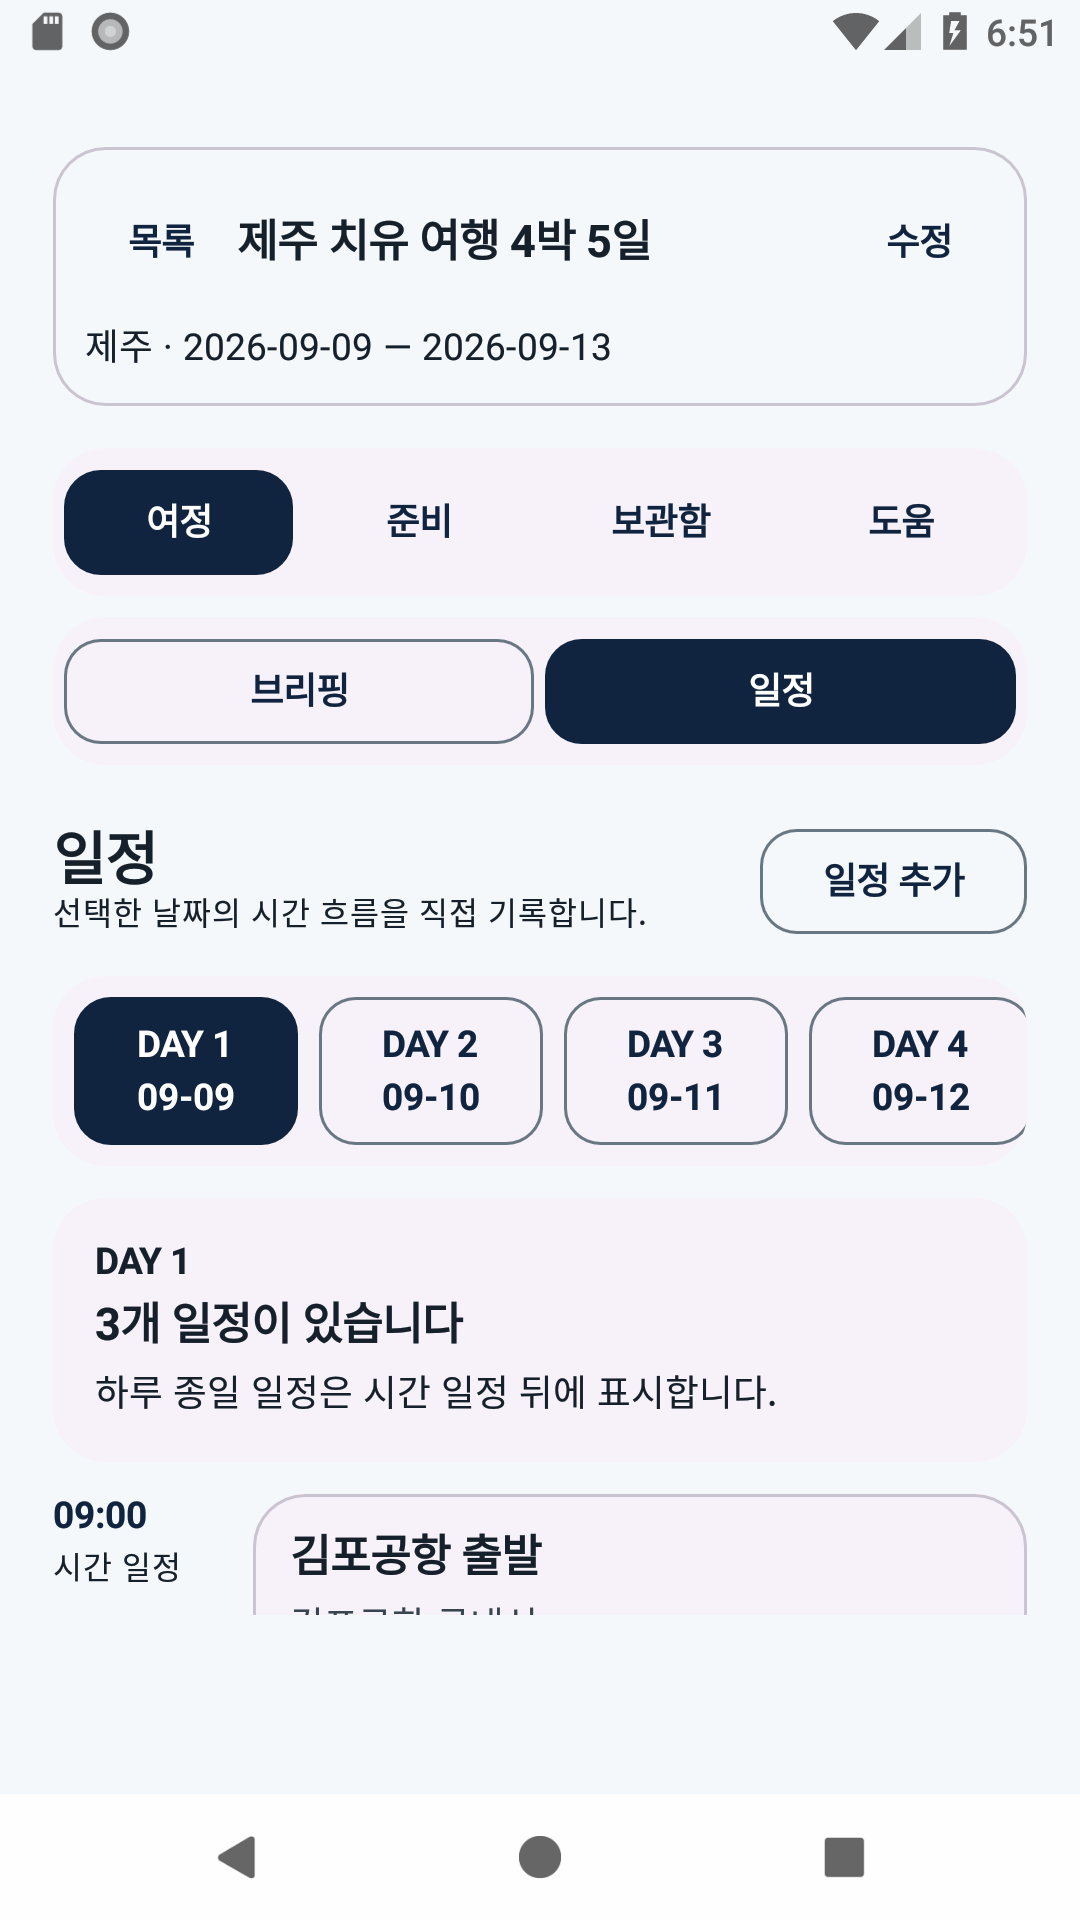
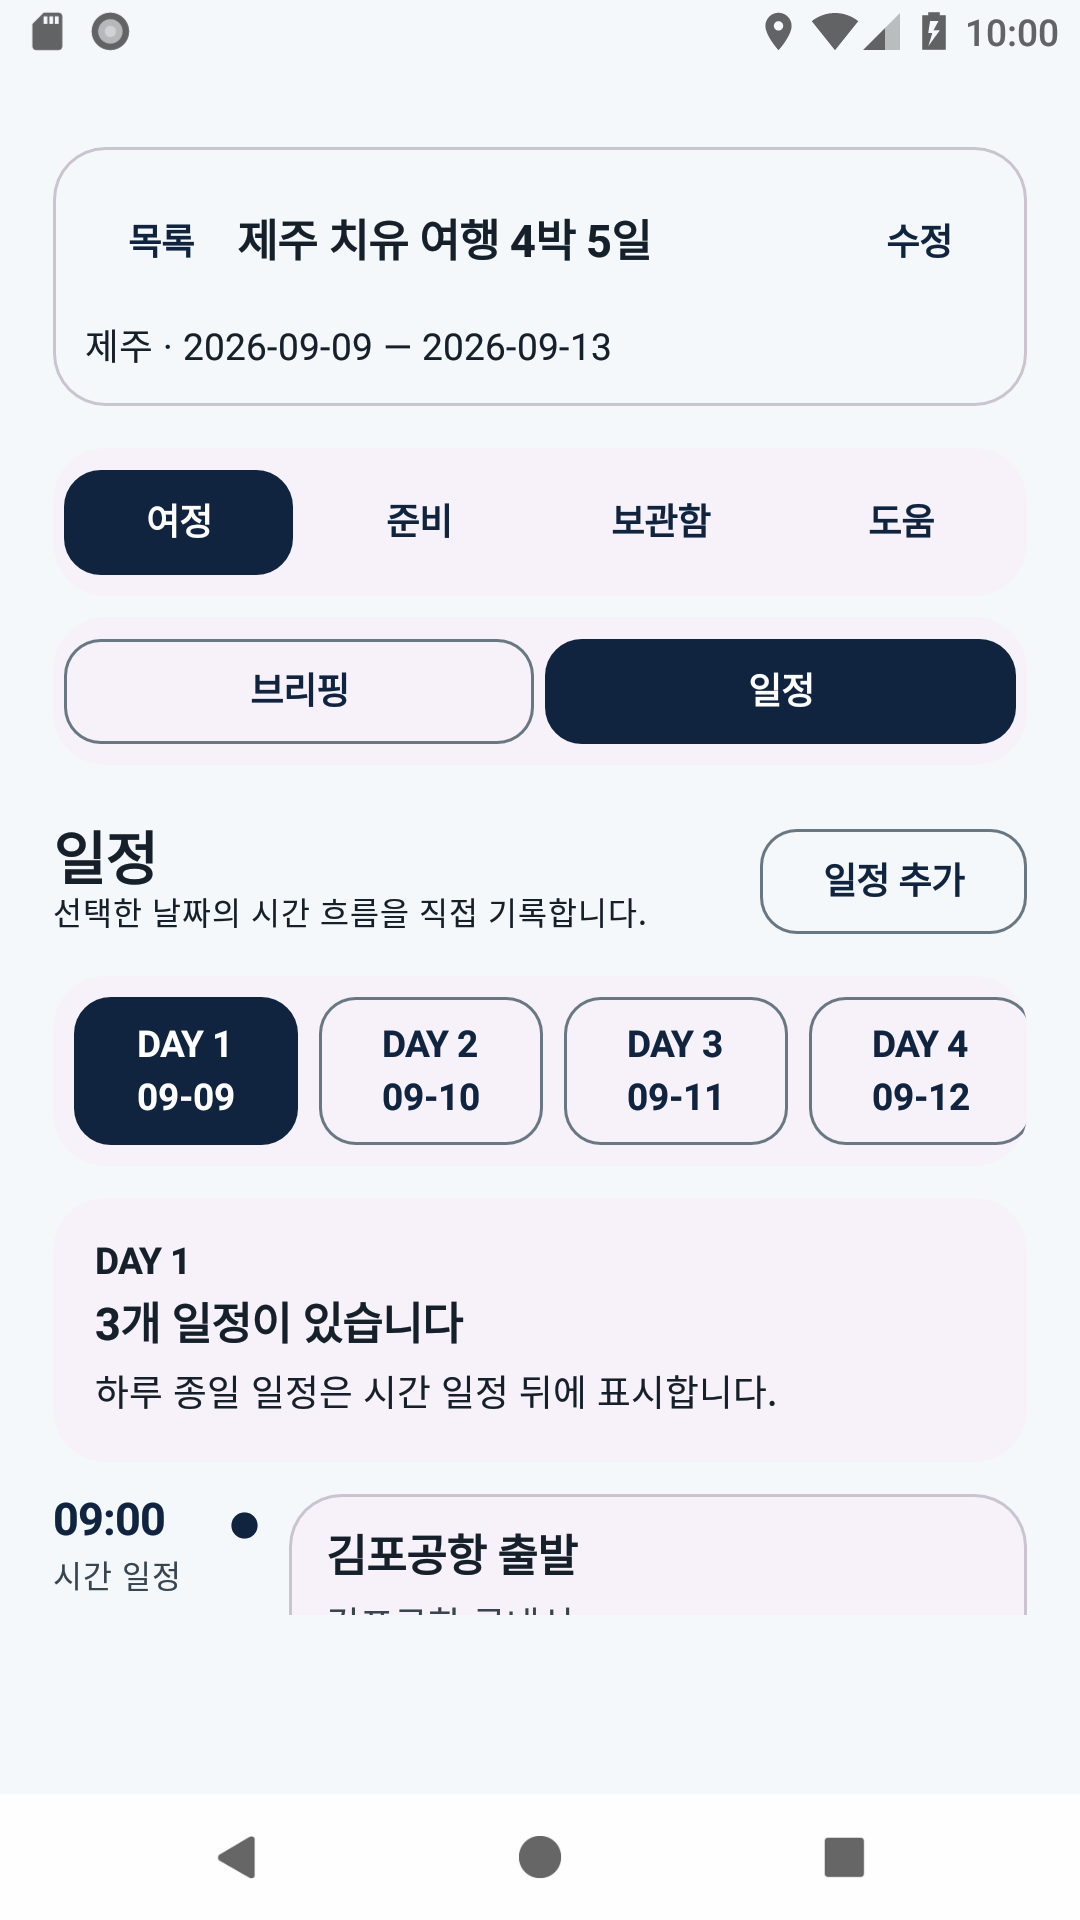
feat: visual polish — ticket documents, timeline rail, destination monograms
- reservation rows become travel documents: type badge (항공권/숙박권/
  렌터카권/...), perforated stub with dashed rule and punched notches,
  confirmation code as the boarding-pass number on the stub
- itinerary day becomes a boarding sequence: time column + continuous
  rail with state nodes (timed=primary, all-day=secondary)
- journey hero and list cards gain destination monogram identity marks,
  list card restructured to monogram + info + scope chip
- all colors from colorScheme roles only; tags and semantics unchanged;
  gates 3/4/5/10/12/15, unit, and 10 instrumented tests pass

diff --git a/app/src/main/kotlin/io/trippilot/app/core/design/TripPilotApp.kt b/app/src/main/kotlin/io/trippilot/app/core/design/TripPilotApp.kt
@@ -58,6 +58,14 @@ import androidx.compose.ui.semantics.semantics
 import androidx.compose.ui.text.font.FontWeight
 import androidx.compose.ui.text.style.TextOverflow
 import androidx.compose.ui.tooling.preview.Preview
+import androidx.compose.ui.draw.drawBehind
+import androidx.compose.ui.geometry.Offset
+import androidx.compose.ui.graphics.PathEffect
+import androidx.compose.foundation.layout.IntrinsicSize
+import androidx.compose.foundation.layout.fillMaxHeight
+import androidx.compose.foundation.shape.CircleShape
+import androidx.compose.foundation.border
+import androidx.compose.foundation.layout.size
 import androidx.compose.ui.unit.dp
 import io.trippilot.app.R
 import io.trippilot.app.core.data.db.ItineraryItemEntity
@@ -202,6 +210,25 @@ private fun JourneyHero(trip: TripEntity?, onTripSelected: (String) -> Unit) {
                 contentScale = ContentScale.Crop,
                 modifier = Modifier.fillMaxSize(),
             )
+            // Destination monogram: every trip gets a distinct identity mark
+            // without any remote imagery (offline-first, design-direction §5).
+            trip?.let { current ->
+                Box(
+                    modifier = Modifier
+                        .align(Alignment.TopEnd)
+                        .padding(16.dp)
+                        .size(56.dp)
+                        .background(TripPilotHeroScrimBottom, CircleShape)
+                        .border(1.dp, TripPilotHeroText, CircleShape),
+                    contentAlignment = Alignment.Center,
+                ) {
+                    Text(
+                        current.destination.trim().firstOrNull()?.toString().orEmpty(),
+                        style = MaterialTheme.typography.headlineSmall,
+                        color = TripPilotHeroTitle,
+                    )
+                }
+            }
             Box(
                 modifier = Modifier
                     .fillMaxSize()
@@ -252,10 +279,23 @@ private fun TripCard(trip: TripEntity, onClick: () -> Unit) {
         colors = CardDefaults.cardColors(containerColor = MaterialTheme.colorScheme.surfaceContainerLow),
         border = BorderStroke(1.dp, MaterialTheme.colorScheme.outlineVariant),
     ) {
-        Column(Modifier.padding(16.dp), verticalArrangement = Arrangement.spacedBy(4.dp)) {
-            Text(trip.title, style = MaterialTheme.typography.titleLarge)
-            Text(trip.destination, style = MaterialTheme.typography.titleMedium, color = MaterialTheme.colorScheme.primary)
-            Text("${trip.startDate} · ${trip.endDate}", style = MaterialTheme.typography.bodyMedium)
+        Row(Modifier.padding(16.dp), horizontalArrangement = Arrangement.spacedBy(14.dp), verticalAlignment = Alignment.CenterVertically) {
+            Box(
+                modifier = Modifier
+                    .size(48.dp)
+                    .background(MaterialTheme.colorScheme.primaryContainer, MaterialTheme.shapes.medium),
+                contentAlignment = Alignment.Center,
+            ) {
+                Text(
+                    trip.destination.trim().firstOrNull()?.toString().orEmpty(),
+                    style = MaterialTheme.typography.titleLarge,
+                    color = MaterialTheme.colorScheme.onPrimaryContainer,
+                )
+            }
+            Column(Modifier.weight(1f), verticalArrangement = Arrangement.spacedBy(2.dp)) {
+                Text(trip.title, style = MaterialTheme.typography.titleLarge, maxLines = 1, overflow = TextOverflow.Ellipsis)
+                Text("${trip.destination} · ${trip.startDate} — ${trip.endDate}", style = MaterialTheme.typography.bodyMedium, color = MaterialTheme.colorScheme.onSurfaceVariant, maxLines = 1, overflow = TextOverflow.Ellipsis)
+            }
             StatusChip(scopeLabel(trip.scope))
         }
     }
@@ -822,15 +862,45 @@ private fun TimelineEntry(
     onDelete: (String) -> Unit,
     onSource: (ItineraryItemEntity) -> Unit,
 ) {
+    val outlineRule = MaterialTheme.colorScheme.outlineVariant
+    val nodeColor = if (item.allDay) MaterialTheme.colorScheme.secondary else MaterialTheme.colorScheme.primary
     Row(
         modifier = Modifier.fillMaxWidth().testTag("timeline_entry_${item.id}"),
         verticalAlignment = Alignment.Top,
-        horizontalArrangement = Arrangement.spacedBy(12.dp),
+        horizontalArrangement = Arrangement.spacedBy(10.dp),
     ) {
-        Column(Modifier.width(64.dp), verticalArrangement = Arrangement.spacedBy(4.dp)) {
-            Text(formatMinute(item.startMinute), style = MaterialTheme.typography.labelLarge, color = MaterialTheme.colorScheme.primary)
-            Text(if (item.allDay) "하루 종일" else "시간 일정", style = MaterialTheme.typography.bodySmall)
+        Column(Modifier.width(56.dp), verticalArrangement = Arrangement.spacedBy(4.dp)) {
+            Text(
+                formatMinute(item.startMinute),
+                style = MaterialTheme.typography.titleMedium,
+                color = MaterialTheme.colorScheme.primary,
+            )
+            Text(
+                if (item.allDay) "하루 종일" else "시간 일정",
+                style = MaterialTheme.typography.bodySmall,
+                color = MaterialTheme.colorScheme.onSurfaceVariant,
+            )
         }
+        // Document rail: a continuous rule with a node per entry turns the day
+        // into a boarding sequence instead of a flat list (design-direction §2).
+        Box(
+            Modifier
+                .width(14.dp)
+                .drawBehind {
+                    val cx = size.width / 2
+                    drawLine(
+                        color = outlineRule,
+                        start = Offset(cx, 0f),
+                        end = Offset(cx, size.height),
+                        strokeWidth = 2.dp.toPx(),
+                    )
+                    drawCircle(
+                        color = nodeColor,
+                        radius = 5.dp.toPx(),
+                        center = Offset(cx, 12.dp.toPx()),
+                    )
+                },
+        )
         Surface(
             modifier = Modifier.weight(1f),
             color = MaterialTheme.colorScheme.surfaceContainerLow,
@@ -1344,32 +1414,101 @@ private fun ReservationDocumentRow(
     onSource: (ReservationEntity) -> Unit,
     onDelete: (String) -> Unit,
 ) {
+    val typeLabel = reservationDocumentTypeLabel(reservation.type)
+    val typeColor = when (reservation.type.uppercase()) {
+        "LODGING", "TOUR" -> MaterialTheme.colorScheme.secondary
+        "CAR" -> MaterialTheme.colorScheme.tertiary
+        else -> MaterialTheme.colorScheme.primary
+    }
+    val pageBackground = MaterialTheme.colorScheme.background
+    val dashColor = MaterialTheme.colorScheme.outlineVariant
     Surface(
         modifier = Modifier.fillMaxWidth().testTag("reservation_document_${reservation.id}"),
         color = MaterialTheme.colorScheme.surfaceContainerLow,
         shape = MaterialTheme.shapes.large,
         border = BorderStroke(1.dp, MaterialTheme.colorScheme.outlineVariant),
     ) {
-        Column(Modifier.padding(16.dp), verticalArrangement = Arrangement.spacedBy(6.dp)) {
-            Text("${reservation.type} · ${reservation.status}", style = MaterialTheme.typography.labelLarge, color = MaterialTheme.colorScheme.primary)
-            Text(reservation.provider, style = MaterialTheme.typography.titleMedium, maxLines = 1, overflow = TextOverflow.Ellipsis)
-            Text("확인번호 ${reservation.confirmationCode}", style = MaterialTheme.typography.bodyLarge)
-            val detail = listOfNotNull(
-                reservation.dateTime?.takeIf(String::isNotBlank),
-                reservation.location.takeIf(String::isNotBlank),
-            ).joinToString(" · ")
-            if (detail.isNotBlank()) Text(detail, style = MaterialTheme.typography.bodyMedium)
-            reservation.url?.let {
-                Text("연결 링크", style = MaterialTheme.typography.labelMedium, color = MaterialTheme.colorScheme.onSurfaceVariant)
-                Text(it, style = MaterialTheme.typography.bodySmall, maxLines = 2, overflow = TextOverflow.Ellipsis)
+        Row(Modifier.height(IntrinsicSize.Min)) {
+            Column(
+                Modifier
+                    .weight(1f)
+                    .padding(start = 16.dp, top = 14.dp, bottom = 14.dp, end = 10.dp),
+                verticalArrangement = Arrangement.spacedBy(6.dp),
+            ) {
+                Row(horizontalArrangement = Arrangement.spacedBy(8.dp), verticalAlignment = Alignment.CenterVertically) {
+                    Surface(shape = MaterialTheme.shapes.extraLarge, color = typeColor.copy(alpha = 0.12f)) {
+                        Text(
+                            typeLabel,
+                            modifier = Modifier.padding(horizontal = 10.dp, vertical = 3.dp),
+                            style = MaterialTheme.typography.labelLarge,
+                            color = typeColor,
+                        )
+                    }
+                    Text(reservationStatusLabel(reservation.status), style = MaterialTheme.typography.labelLarge, color = MaterialTheme.colorScheme.onSurfaceVariant)
+                }
+                Text(reservation.provider, style = MaterialTheme.typography.titleLarge, maxLines = 1, overflow = TextOverflow.Ellipsis)
+                reservation.dateTime?.takeIf(String::isNotBlank)?.let {
+                    Text(it, style = MaterialTheme.typography.bodyLarge, color = MaterialTheme.colorScheme.onSurfaceVariant)
+                }
+                if (reservation.location.isNotBlank()) {
+                    Text(reservation.location, style = MaterialTheme.typography.bodyMedium, color = MaterialTheme.colorScheme.onSurfaceVariant)
+                }
+                reservation.url?.let {
+                    Text("연결 링크", style = MaterialTheme.typography.labelMedium, color = MaterialTheme.colorScheme.onSurfaceVariant)
+                    Text(it, style = MaterialTheme.typography.bodySmall, maxLines = 2, overflow = TextOverflow.Ellipsis)
+                }
+                Row {
+                    TextButton(onClick = { onEdit(reservation) }) { Text("수정") }
+                    TextButton(onClick = { onSource(reservation) }) { Text("출처 추가") }
+                    TextButton(onClick = { onDelete(reservation.id) }) { Text("삭제") }
+                }
             }
-            Row {
-                TextButton(onClick = { onEdit(reservation) }) { Text("수정") }
-                TextButton(onClick = { onSource(reservation) }) { Text("출처 추가") }
-                TextButton(onClick = { onDelete(reservation.id) }) { Text("삭제") }
+            // Ticket stub: perforated rule + punched notches turn the row into a
+            // travel document; the confirmation code is the boarding pass number.
+            Box(
+                Modifier
+                    .width(92.dp)
+                    .fillMaxHeight()
+                    .drawBehind {
+                        drawLine(
+                            color = dashColor,
+                            start = Offset(0f, 10.dp.toPx()),
+                            end = Offset(0f, size.height - 10.dp.toPx()),
+                            strokeWidth = 2.dp.toPx(),
+                            pathEffect = PathEffect.dashPathEffect(floatArrayOf(6.dp.toPx(), 6.dp.toPx())),
+                        )
+                        drawCircle(color = pageBackground, radius = 9.dp.toPx(), center = Offset(0f, 0f))
+                        drawCircle(color = pageBackground, radius = 9.dp.toPx(), center = Offset(0f, size.height))
+                    }
+                    .padding(start = 14.dp, top = 14.dp, bottom = 14.dp, end = 12.dp),
+                contentAlignment = Alignment.Center,
+            ) {
+                Column(horizontalAlignment = Alignment.CenterHorizontally, verticalArrangement = Arrangement.spacedBy(6.dp)) {
+                    Text("확인번호", style = MaterialTheme.typography.labelMedium, color = MaterialTheme.colorScheme.onSurfaceVariant)
+                    Text(
+                        reservation.confirmationCode,
+                        style = MaterialTheme.typography.titleMedium,
+                        color = MaterialTheme.colorScheme.primary,
+                    )
+                }
             }
         }
     }
+}
+
+private fun reservationDocumentTypeLabel(type: String): String = when (type.uppercase()) {
+    "FLIGHT" -> "항공권"
+    "LODGING" -> "숙박권"
+    "CAR" -> "렌터카권"
+    "TRAIN" -> "승차권"
+    "TOUR" -> "티켓"
+    else -> "서류"
+}
+
+private fun reservationStatusLabel(status: ReservationStatus): String = when (status) {
+    ReservationStatus.CONFIRMED -> "확정"
+    ReservationStatus.DRAFT -> "미확정"
+    ReservationStatus.CANCELLED -> "취소"
 }
 
 @Composable

diff --git a/dev-plan/implement_20260819_215537.md b/dev-plan/implement_20260819_215537.md
@@ -1,0 +1,22 @@
+# implement_20260819_215537.md — 시각 폴리시 트랙 (TripPilot 서류 비주얼)
+
+작성: 2026-08-19 21:55 KST. 사용자 진단 반영: 시스템(토큰·검증·접근성)은 완성됐으나 시각 표현이 데모 수준. offline-first·토큰 계약·slop 게이트를 유지하면서 "여행 서류" 은유를 실제 비주얼로 완성한다.
+
+## 개발 범위
+- Phase 1: 표지 아이덴티티(모노그램·그라디언트 유지), 예약 서류를 **티켓/탑승권 카드**(유형별 변주·노치·절취선), 일정 **타임라인 rail**(시간·노드·선)
+- Phase 2: 타입 리듬(utility 숫자 대비·브리핑 계층), 목록 카드 재디자인
+- Phase 3: 절제 모션(완료 피드백 1회), dark 모드 분위기 조정
+
+## 제외
+- 원격 이미지·사진·지도 타일(기존 제외 유지), 새 팔레트, 토큰 값 변경, 무한 애니메이션(게이트 10), 인라인 색(게이트 3)
+- 골든 자동 갱신 — 사람 승인 후
+
+## 규칙
+- 모든 색은 colorScheme 역할만. 노치·절취선 Canvas는 role 색으로
+- 기존 testTag·semantics 전부 유지 (회귀 최소화)
+- 각 Phase 후 게이트 6종 + 계측 회귀 PASS 필수
+
+## Phase 상태
+- [x] Phase 1. 표지·티켓 카드·타임라인 rail — 게이트 6종·unit·계측 10종 PASS, 데모 캡처 갱신
+- [ ] Phase 2. 타입 리듬·목록 카드
+- [ ] Phase 3. 모션·dark 조정 (별도 진행)
